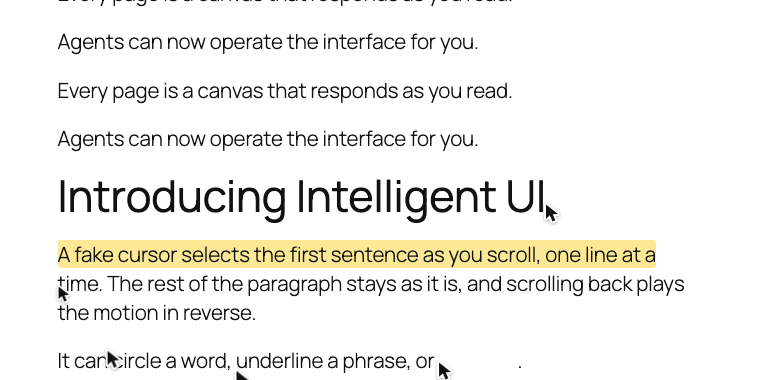
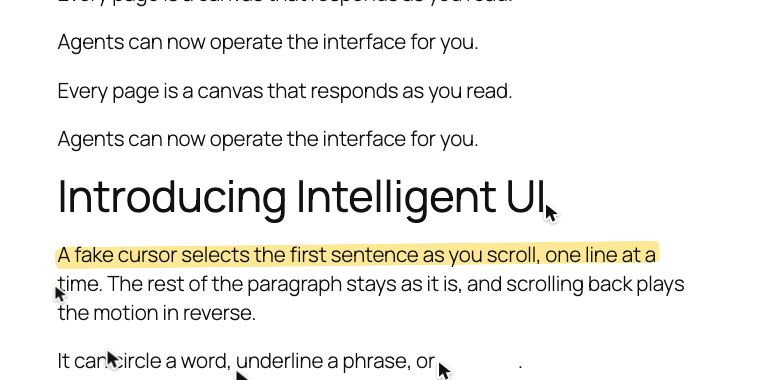
feat(highlight): Draw a marker stroke (#1)
Highlight now looks like a marker drawn by hand, not a text selection:
the band is lower and thinner than the line, goes a little past both
ends, and has uneven round ends and a small tilt per line.

Update the README GIF, screenshot 3, and demo.gif. Bump to 1.1.0.

diff --git a/tests/e2e/utils.js b/tests/e2e/utils.js
@@ -1,5 +1,5 @@
 /**
- * Compares the highlight rects with the line boxes of the text.
+ * Compares the highlight rects with the marker bands of the text lines.
  *
  * @param {import('@playwright/test').Locator} element Wrapper locator.
  * @return {Promise<{lines: number, rects: number, maxError: number}>} Result.
@@ -32,23 +32,48 @@ function compareWithLines( element ) {
 			}
 		}
 
+		// The box before the tilt, relative to the layer.
+		const origin = layer.getBoundingClientRect();
 		const rects = [ ...layer.querySelectorAll( '.ghostline__highlight' ) ]
-			.map( ( el ) => el.getBoundingClientRect() )
+			.map( ( el ) => {
+				const [ left, top, width, height ] = [
+					'left',
+					'top',
+					'width',
+					'height',
+				].map( ( key ) => parseFloat( el.style[ key ] ) );
+				return {
+					left,
+					top,
+					right: left + width,
+					bottom: top + height,
+				};
+			} )
 			.sort( ( a, b ) => a.top - b.top );
 		lines.sort( ( a, b ) => a.top - b.top );
 
+		// Each rect is the marker band of its line (getMarkerBand in bands.js).
 		let maxError = 0;
 		rects.forEach( ( r, i ) => {
 			const l = lines[ i ];
 			if ( ! l ) {
 				return;
 			}
+			const height = l.bottom - l.top;
+			const overshoot = Math.round( height * 0.12 );
+			const top = Math.round( l.top - origin.top + height * 0.14 );
+			const band = {
+				left: l.left - origin.left - overshoot,
+				right: l.right - origin.left + overshoot,
+				top,
+				bottom: top + Math.round( height * 0.78 ),
+			};
 			maxError = Math.max(
 				maxError,
-				Math.abs( r.left - l.left ),
-				Math.abs( r.right - l.right ),
-				Math.abs( r.top - l.top ),
-				Math.abs( r.bottom - l.bottom )
+				Math.abs( r.left - band.left ),
+				Math.abs( r.right - band.right ),
+				Math.abs( r.top - band.top ),
+				Math.abs( r.bottom - band.bottom )
 			);
 		} );
 

diff --git a/tests/js/bands.test.js b/tests/js/bands.test.js
@@ -1,5 +1,6 @@
 import {
 	getBand,
+	getMarkerBand,
 	getStrikeBand,
 	getUnderlineBand,
 	STRIKE_POSITION,
@@ -47,5 +48,37 @@ describe( 'underline and strike', () => {
 		expect( band.top + band.height ).toBeLessThan(
 			line.top + line.height * 0.7
 		);
+	} );
+} );
+
+describe( 'getMarkerBand', () => {
+	it( 'sits in the lower part of the line, inside it', () => {
+		const band = getMarkerBand( line );
+		expect( band.top ).toBeGreaterThan( line.top );
+		expect( band.top + band.height ).toBeLessThanOrEqual(
+			line.top + line.height
+		);
+		expect( band.height ).toBeLessThan( line.height );
+	} );
+
+	it( 'goes a little past both ends of the line, by the same amount', () => {
+		const band = getMarkerBand( line );
+		const before = line.left - band.left;
+		const after = band.left + band.width - ( line.left + line.width );
+		expect( before ).toBeGreaterThan( 0 );
+		expect( before ).toBe( after );
+		expect( before ).toBeLessThan( line.height * 0.2 );
+	} );
+
+	it( 'uses whole pixels', () => {
+		const band = getMarkerBand( {
+			left: 3,
+			top: 7.4,
+			width: 99,
+			height: 33,
+		} );
+		for ( const value of Object.values( band ) ) {
+			expect( Number.isInteger( value ) ).toBe( true );
+		}
 	} );
 } );

diff --git a/src/view/bands.js b/src/view/bands.js
@@ -41,3 +41,21 @@ export function getUnderlineBand( line ) {
 export function getStrikeBand( line ) {
 	return getBand( line, STRIKE_POSITION );
 }
+
+/**
+ * Returns the marker band of a line: lower and thinner than the line, and a
+ * little past both ends, like a stroke drawn by hand.
+ *
+ * @param {{left: number, top: number, width: number, height: number}} line Line rect.
+ * @return {{left: number, top: number, width: number, height: number}} Band rect.
+ */
+export function getMarkerBand( line ) {
+	const overshoot = Math.round( line.height * 0.12 );
+
+	return {
+		left: line.left - overshoot,
+		top: Math.round( line.top + line.height * 0.14 ),
+		width: line.width + overshoot * 2,
+		height: Math.round( line.height * 0.78 ),
+	};
+}

diff --git a/src/style.scss b/src/style.scss
@@ -31,10 +31,16 @@
 	pointer-events: none;
 }
 
+// Marker stroke: uneven round ends and a small tilt that changes per line.
 .ghostline__highlight {
 	position: absolute;
-	border-radius: 0.12em;
+	border-radius: 0.55em 0.2em 0.5em 0.25em / 0.3em 0.45em 0.25em 0.5em;
 	background-color: var(--ghostline-highlight-color, rgb(250 204 21 / 45%));
+	transform: rotate(-0.6deg);
+
+	&:nth-child(2n) {
+		transform: rotate(0.4deg);
+	}
 }
 
 .ghostline__layer--above {

diff --git a/src/view/highlight.js b/src/view/highlight.js
@@ -1,7 +1,8 @@
+import { getMarkerBand } from './bands';
 import { createLineMotion } from './line-layer';
 
-// The cursor selects each line; the rect covers the full line, below the text.
+// The cursor marks each line with a marker stroke, below the text.
 export const highlightMotion = createLineMotion( {
 	className: 'ghostline__highlight',
-	shape: ( line ) => line,
+	shape: getMarkerBand,
 } );

diff --git a/ghostline.php b/ghostline.php
@@ -2,7 +2,7 @@
 /**
  * Plugin Name:       Ghostline
  * Description:       Adds subtle cursor animations, linked to the scroll, to selected text in headings and paragraphs.
- * Version:           1.0.0
+ * Version:           1.1.0
  * Requires at least: 6.5
  * Requires PHP:      8.1
  * Author:            Ghostline contributors
@@ -19,7 +19,7 @@ namespace Ghostline;
 
 defined( 'ABSPATH' ) || exit;
 
-const VERSION = '1.0.0';
+const VERSION = '1.1.0';
 const FILE    = __FILE__;
 const DIR     = __DIR__;
 

diff --git a/README.md b/README.md
@@ -13,7 +13,7 @@ A WordPress plugin. A fake cursor moves, marks, or types the text that you selec
 | Motion | What the cursor does | Preview |
 |---|---|---|
 | Move | Drags tilted text into its position | <img src=".github/readme/move.gif" width="360" alt="Move motion"> |
-| Highlight | Selects the text; the highlight stays | <img src=".github/readme/highlight.gif" width="360" alt="Highlight motion"> |
+| Highlight | Marks the text; a marker stroke stays | <img src=".github/readme/highlight.gif" width="360" alt="Highlight motion"> |
 | Underline | Draws a line below the text | <img src=".github/readme/underline.gif" width="360" alt="Underline motion"> |
 | Strike | Draws a line through the text | <img src=".github/readme/strike.gif" width="360" alt="Strike motion"> |
 | Click | Clicks the text; a ring spreads out | <img src=".github/readme/click.gif" width="360" alt="Click motion"> |
